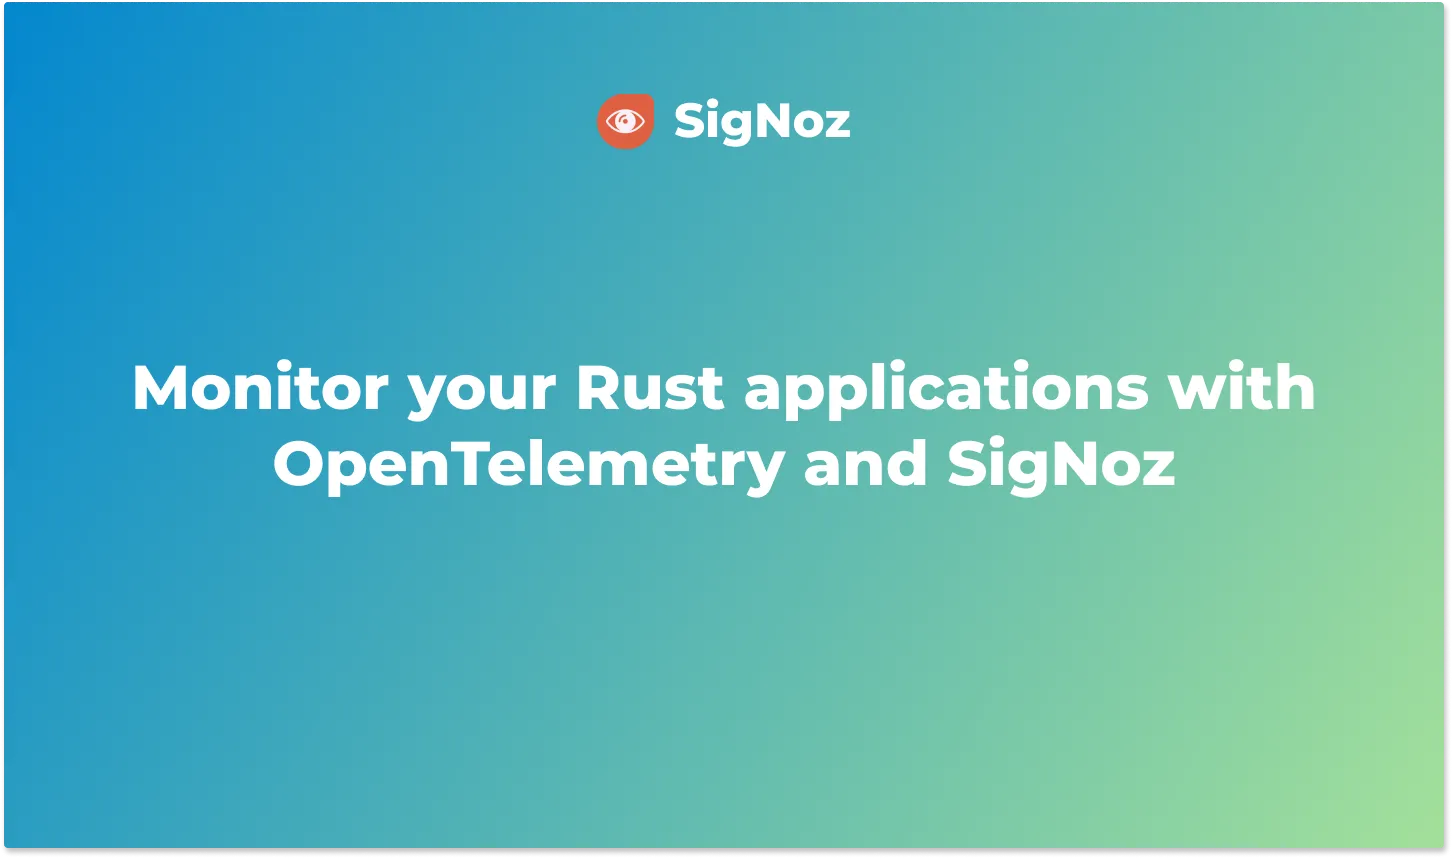
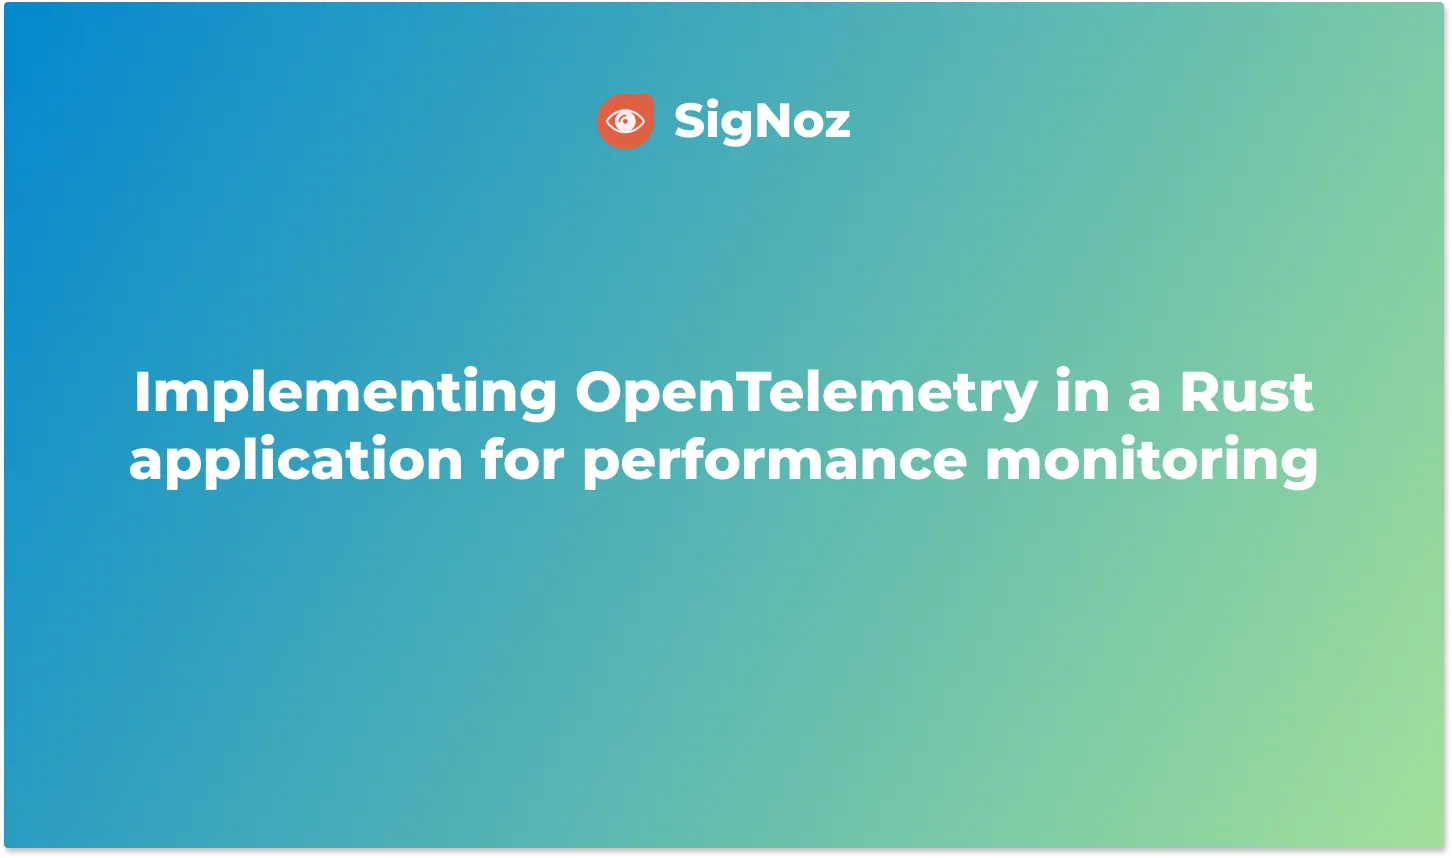
Article on OpenTelemetry Rust

Changed region(s): [[0.093, 0.4242, 0.9298, 0.5758]]

diff --git a/blog/2022-05-11-opentelemetry-rust.md b/blog/2022-05-11-opentelemetry-rust.md
@@ -1,0 +1,205 @@
+---
+title: Implementing OpenTelemetry in a Rust application for performance monitoring 
+slug: opentelemetry-rust
+date: 2022-05-11
+tags: [opentelemetry-tutorials]
+authors: [srikanth]
+description: OpenTelemetry can be used to instrument Rust applications in production for performance monitoring. OpenTelemetry provides libraries, APIs, and SDKs to collect telemetry data(logs, metrics, and traces), using which you can monitor and debug your Rust application for...
+image: /img/blog/2022/05/opentelemetry_rust_cover.webp
+keywords:
+  - opentelemetry
+  - rust
+  - opentelemetry rust
+  - apm tools
+  - application performance monitoring
+---
+<head>
+  <link rel="canonical" href="https://signoz.io/blog/opentelemetry-rust/"/>
+</head>
+
+OpenTelemetry can be used to trace Rust applications for performance issues and bugs. OpenTelemetry is an open-source project under the Cloud Native Computing Foundation (<a href = "https://www.cncf.io/" rel="noopener noreferrer nofollow" target="_blank">CNCF</a>) that aims to standardize the generation and collection of telemetry data. Telemetry data includes logs, metrics, and traces.
+
+<!--truncate-->
+
+![Cover Image](/img/blog/2022/05/opentelemetry_rust_cover.webp)
+
+Rust is a multi-paradigm, general-purpose programming language designed for performance and safety, especially safe concurrency. In this tutorial, we will demonstrate how to use the OpenTelemetry to generate end-to-end tracing.
+
+Before we demonstrate how to implement the OpenTelemetry libraries, let’s have a brief overview of OpenTelemetry.
+
+## What is OpenTelemetry?
+
+<a href = "https://opentelemetry.io/" rel="noopener noreferrer nofollow" target="_blank">OpenTelemetry</a> is an open-source vendor-agnostic set of tools, APIs, and SDKs used to instrument applications to create and manage telemetry data(logs, metrics, and traces). It aims to make telemetry data(logs, metrics, and traces) a built-in feature of cloud-native software applications.
+
+The telemetry data is then sent to an observability tool for storage and visualization.
+
+<figure data-zoomable align='center'>
+    <img src="/img/blog/2022/04/how_opentelemetry_fits.webp" alt="How opentelemetry fits with an application"/>
+    <figcaption><i>OpenTelemetry libraries instrument application code to generate telemetry data that is then sent to an observability tool for storage & visualization</i></figcaption>
+</figure>
+
+<br></br>
+
+OpenTelemetry is the bedrock for setting up an observability framework. It also provides you the freedom to choose a backend analysis tool of your choice.
+
+## OpenTelemetry and SigNoz
+
+In this tutorial, we will use [SigNoz](https://signoz.io/) as our backend analysis tool. SigNoz is a full-stack open-source APM tool that can be used for storing and visualizing the telemetry data collected with OpenTelemetry. It is built natively on OpenTelemetry and works on the OTLP data formats.
+
+SigNoz provides query and visualization capabilities for the end-user and comes with out-of-box charts for application metrics and traces.
+
+Now let’s get down to how to implement OpenTelemetry in Rust applications and then visualize the collected data in SigNoz.
+
+## Running Rust application with OpenTelemetry
+
+**Step 1: Install SigNoz**<br></br>
+
+First, you need to install SigNoz so that OpenTelemetry can send the data to it.
+
+SigNoz can be installed on macOS or Linux computers in just three steps by using a simple install script.
+
+The install script automatically installs Docker Engine on Linux. However, on macOS, you must manually install <a href = "https://docs.docker.com/engine/install/" rel="noopener noreferrer nofollow" target="_blank">Docker Engine</a> before running the install script.
+
+```jsx
+git clone -b main https://github.com/SigNoz/signoz.git
+cd signoz/deploy/
+./install.sh
+```
+
+You can visit our documentation for instructions on how to install SigNoz using Docker Swarm and Helm Charts.
+
+[![Deployment Docs](/img/blog/common/deploy_docker_documentation.webp)](https://signoz.io/docs/install/docker/?utm_source=blog&utm_medium=opentelemetry_rust)
+
+When you are done installing SigNoz, you can access the UI at [http://localhost:3301](http://localhost:3301/application)
+
+<figure data-zoomable align='center'>
+    <img src="/img/blog/2022/02/signoz_dashboard.webp" alt="SigNoz dashboard"/>
+    <figcaption><i>SigNoz dashboard - It shows services from a sample app that comes bundled with the installation</i></figcaption>
+</figure>
+
+<br></br>
+
+**Step 3: Get sample Rust application**<br></br>
+If you have your own Rust application, follow along the steps mentioned below. We have prepared a <a href = "https://github.com/SigNoz/sample-rust-app" rel="noopener noreferrer nofollow" target="_blank">sample Rust application</a> which is already instrumented with OpenTelemetry.
+
+**Step 2:  Instrument your application with OpenTelemetry**<br></br>
+To configure your application to send data we will need a function to initialize OpenTelemetry. Add the following snippet of code in your `main.rs` file.
+
+```jsx
+use opentelemetry::sdk::Resource;
+use opentelemetry::trace::TraceError;
+use opentelemetry::{global, sdk::trace as sdktrace};
+use opentelemetry::{trace::Tracer};
+use opentelemetry_otlp::WithExportConfig;
+
+
+fn init_tracer() -> Result<sdktrace::Tracer, TraceError> {
+    opentelemetry_otlp::new_pipeline()
+        .tracing()
+        .with_exporter(opentelemetry_otlp::new_exporter().tonic().with_env())
+        .with_trace_config(
+            sdktrace::config().with_resource(Resource::default()),
+        )
+        .install_batch(opentelemetry::runtime::Tokio)
+}
+```
+
+**Step 3:  Initialize the tracer in main.rs**<br></br>
+Modify the main function to initialise the tracer  in `main.rs`
+
+```jsx
+#[tokio::main]
+async fn main() -> Result<(), Box<dyn Error + Send + Sync + 'static>> {
+    let _ = init_tracer()?;
+
+    ...
+}
+```
+
+**Step 4:  Add the OpenTelemetry instrumentation for fibonacci**<br></br>
+
+```jsx
+    let parent_cx = global::get_text_map_propagator(|propagator| {
+        propagator.extract(&HeaderExtractor(req.headers()))
+    });
+    tracer.start_with_context("fibonacci", &parent_cx);
+```
+
+**Step 5: Set environment variables and run your Rust application**<br></br>
+Now that you have instrumented your Rust application with OpenTelemetry, you need to set some environment variables to send data to SigNoz backend:
+
+`OTEL_RESOURCE_ATTRIBUTES`: service.name=rust-app (you can name it whatever you want)
+
+`OTEL_EXPORTER_OTLP_ENDPOINT`: http://localhost:4317
+
+Since, we have installed SigNoz on our local machine, we use the above IP. If you install SigNoz on a different machine, you can update it with the relevant IP.
+
+Hence, the final run command looks like this:
+
+```jsx
+OTEL_EXPORTER_OTLP_ENDPOINT=http://localhost:4317 OTEL_RESOURCE_ATTRIBUTES=service.name=rust-app cargo run
+```
+
+**Step 8:** **Generate some data**<br></br>
+In order to monitor your Rust application with SigNoz, you first need to generate some data.
+
+Visit home page of your Rust application at localhost:1337 and enter some details. Alternatively you can just send curl request
+
+```jsx
+curl -d "name=Baymax&number=42" \
+-H "Content-Type: application/x-www-form-urlencoded" \
+-X POST http://localhost:1337/post
+```
+        
+
+**Step 9: Visualize the collected data in SigNoz**<br></br>
+Access the signoz UI on [http://localhost:3301/application](http://localhost:3301/application). You will find your sample Rust application in the list of applications being monitored by SigNoz.
+
+<figure data-zoomable align='center'>
+    <img src="/img/blog/2022/05/rust_application_signoz_dashboard.webp" alt="Rust app being monitored on SigNoz dashboard"/>
+    <figcaption><i>Rust application being monitored on the SigNoz dashboard. The other applications are sample apps that come bundled with SigNoz installation.</i></figcaption>
+</figure>
+
+<br></br>
+
+Go to `Traces` and choose `rust-app` from the list of services to see the tracing data of your application. Tracing data can help you visualize how user requests perform across services in a multi-service application.
+
+In the `Traces` tab of SigNoz, you can analyze the tracing data using filters based on tags, status codes, service names, operations, etc.
+
+<figure data-zoomable align='center'>
+    <img src="/img/blog/2022/05/rust_application_traces_tab.webp" alt="Traces tab of SigNoz dashboard"/>
+    <figcaption><i>Use powerful filters to analyze the tracing data of your Rust application</i></figcaption>
+</figure>
+
+<br></br>
+
+You can see a complete breakdown of the request with Flamegraphs and Gantt charts. You can click on any span in the spans table to access it.
+
+<figure data-zoomable align='center'>
+    <img src="/img/blog/2022/05/rust_application_flamegraphs.webp" alt="Flamegraphs and Gantt charts in SigNoz dashboard"/>
+    <figcaption><i>You can see the complete breakdown of your requests with details like how much time each operation took, span attributes, etc</i></figcaption>
+</figure>
+
+<br></br>
+
+## Conclusion
+
+Using OpenTelemetry libraries, you can instrument your Rust applications for end-to-end tracing. You can then use an open-source APM tool like SigNoz to ensure the smooth performance of your applications.
+
+OpenTelemetry is the future for setting up observability for cloud-native apps. It is backed by a huge community and covers a wide variety of technology and frameworks. Using OpenTelemetry, engineering teams can instrument polyglot and distributed applications with peace of mind.
+
+SigNoz is an open-source observability tool that comes with a SaaS-like experience. You can try out SigNoz by visiting its GitHub repo 👇
+
+[![SigNoz GitHub repo](/img/blog/common/signoz_github.webp)](https://github.com/SigNoz/signoz)
+
+
+If you face any issues while trying out SigNoz, you can reach out with your questions in #support channel 👇
+
+[![SigNoz Slack community](/img/blog/common/join_slack_cta.png)](https://signoz.io/slack)
+
+---
+
+## Further Reading
+
+**[OpenTelemetry Collector - Complete Guide](https://signoz.io/blog/opentelemetry-collector-complete-guide/)**<br></br>
+**[OpenTelemetry Tracing - things you need to know](https://signoz.io/blog/opentelemetry-tracing/)**<br></br>

diff --git a/blog/2022-04-30-opentelemetry-nextjs.md b/blog/2022-04-30-opentelemetry-nextjs.md
@@ -49,13 +49,11 @@ The telemetry data is then sent to an observability tool for storage and visuali
 
 <br></br>
 
-OpenTelemetry libraries instrument application code to generate telemetry data that is then sent to an observability tool for storage & visualization
-
 OpenTelemetry is the bedrock for setting up an observability framework. It also provides you the freedom to choose a backend analysis tool of your choice. You will never get locked in with any vendor if you use OpenTelemetry for your instrumentation layer.
 
 ## OpenTelemetry and SigNoz
 
-In this article, we will use SigNoz as our backend analysis tool. SigNoz is a full-stack open-source APM tool that can be used for storing and visualizing the telemetry data collected with OpenTelemetry. It is built natively on OpenTelemetry and works on the OTLP data formats.
+In this tutorial, we will use SigNoz as our backend analysis tool. SigNoz is a full-stack open-source APM tool that can be used for storing and visualizing the telemetry data collected with OpenTelemetry. It is built natively on OpenTelemetry and works on the OTLP data formats.
 
 SigNoz provides query and visualization capabilities for the end-user and comes with out-of-box charts for application metrics and traces.
 

diff --git a/blog/2022-04-30-opentelemetry-gin.md b/blog/2022-04-30-opentelemetry-gin.md
@@ -57,13 +57,11 @@ The telemetry data is then sent to an observability tool for storage and visuali
 
 <br></br>
 
-OpenTelemetry libraries instrument application code to generate telemetry data that is then sent to an observability tool for storage & visualization
-
 OpenTelemetry is the bedrock for setting up an observability framework. It also provides you the freedom to choose a backend analysis tool of your choice.
 
 ## OpenTelemetry and SigNoz
 
-In this article, we will use SigNoz as our backend analysis tool. SigNoz is a full-stack open-source APM tool that can be used for storing and visualizing the telemetry data collected with OpenTelemetry. It is built natively on OpenTelemetry and works on the OTLP data formats.
+In this tutorial, we will use SigNoz as our backend analysis tool. SigNoz is a full-stack open-source APM tool that can be used for storing and visualizing the telemetry data collected with OpenTelemetry. It is built natively on OpenTelemetry and works on the OTLP data formats.
 
 SigNoz provides query and visualization capabilities for the end-user and comes with out-of-box charts for application metrics and traces.
 
